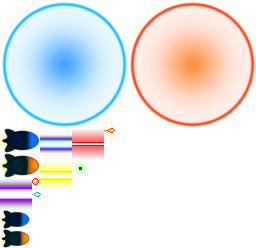
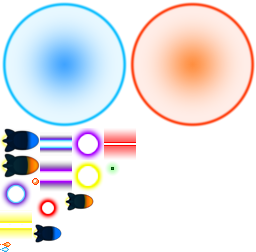
Added laser endings

diff --git a/public_html/js/modules/shots.js b/public_html/js/modules/shots.js
@@ -1,11 +1,12 @@
 window.shot = {
-    get: function (type, avatar) {
+    get: function (type, avatar, avatar2) {
         switch (type) {
             case SHOT_P2P:
                 return Crafty.e ('2D, Canvas, Image, {0}, {1}, {2}'.format (SHOT_ABS, type, avatar || P2P_IMAGE_NAME.shotNormal));
             case SHOT_LASER:
                 return Crafty.e ('2D, Canvas, Image, {0}, {1}'.format (SHOT_ABS, type))
-                        .setImage (LASER_IMAGE_PATH.laserThinRed)
+                        .setImage (avatar || LASER_IMAGE_PATH.laserThickPurple)
+                        .setEnding (avatar2 || LASER_IMAGE_NAME.laserThickPurpleEnd)
                         .attr ({w: 10, h: 10});
             case SHOT_HOMING:
                 return Crafty.e ('2D, Canvas, Image, {0}, {1}, {2}'.format (SHOT_ABS, type, avatar || HOMING_IMAGE_NAME.rocketBlueSmall));
@@ -156,11 +157,12 @@ Crafty.c (SHOT_LASER, {
     withRadius: false,
     //variable with range
     rangeRadius: 0,
-    create: function (laser) {
+    create: function (laser, ending) {
         this.angle = NaN;
+        if (!this.ending || ending)
+            this.setEnding (ending || LASER_IMAGE_NAME.laserThinRedEnd);
         if (!this.laser || laser)
             this.setImage (laser || LASER_IMAGE_PATH.laserThinRed);
-        this.laser.visible = false;
     },
     //#
     enterFrame: function () {
@@ -182,11 +184,16 @@ Crafty.c (SHOT_LASER, {
         this.laser.w = this.len + distance (this.shiftPoint, ep);
         this.laser.rotation = (this.angle * 180) / Math.PI;
         this.laser.visible = true;
+        this.ending.visible = true;
+
+        this.ending.x = ep.x - this.ending.w/2;
+        this.ending.y = ep.y - this.ending.h/2;
     },
     //#
     start: function () {
         if (this.startPoint !== null && this.endPoint !== null) {
             this.laser.z = this.z;
+            this.ending.z = this.z+1;
             this.setStartPoint (this.startPoint);
             this.laser.origin (0, this.laser.h / 2);
             this.len = 0;
@@ -219,6 +226,7 @@ Crafty.c (SHOT_LASER, {
     //#
     doDestroy: function () {
         this.laser.destroy ();
+        this.ending.destroy ();
         this.destroy ();
     },
     //#
@@ -230,6 +238,12 @@ Crafty.c (SHOT_LASER, {
     setImage: function (path) {
         this.laser = Crafty.e ("2D, Canvas, Image").image (path, "repeat");
         this.laser.visible = false;
+        return this;
+    },
+    //#
+    setEnding: function (avatar) {
+        this.ending = Crafty.e ("2D, Canvas, Image, {0}".format (avatar));
+        this.ending.visible = false;
         return this;
     }
 });

diff --git a/public_html/js/scenes/loading.js b/public_html/js/scenes/loading.js
@@ -12,7 +12,6 @@ Crafty.scene (SCENE_LOADING, function () {
         'images/cat.gif',
         'images/shot.png',
         'images/laser-cat.png',
-        
         //# explosion packed
         'images/exp-simple.png',
         'images/exp-complex.png',
@@ -233,15 +232,19 @@ Crafty.sprite ('images/shots.png', {
     aura_blue: [0, 0, 128, 128],
     aura_red: [128, 0, 128, 128],
     laser_thick_blue: [40, 128, 32, 32],
-    laser_thick_purple: [0, 178, 32, 32],
-    laser_thick_yellow: [40, 160, 32, 32],
-    laser_thin_red: [72, 128, 32, 32],
+    laser_thick_blue_end: [0, 178, 32, 32],
+    laser_thick_purple: [40, 160, 32, 32],
+    laser_thick_purple_end: [72, 128, 32, 32],
+    laser_thick_yellow: [0, 210, 32, 32],
+    laser_thick_yellow_end: [72, 160, 32, 32],
+    laser_thin_red: [104, 128, 32, 32],
+    laser_thin_red_end: [32, 192, 32, 32],
     rocket_blue: [0, 128, 40, 25],
-    rocket_blue_small: [0, 210, 30, 19],
+    rocket_blue_small: [32, 224, 30, 19],
     rocket_red: [0, 153, 40, 25],
-    rocket_red_small: [0, 229, 30, 19],
+    rocket_red_small: [64, 192, 30, 19],
     shot_cannon: [32, 178, 7, 7],
-    shot_green: [72, 160, 16, 16],
-    shot_ice: [32, 192, 9, 5],
-    shot_normal: [104, 128, 11, 5]
+    shot_green: [104, 160, 16, 16],
+    shot_ice: [0, 247, 9, 5],
+    shot_normal: [0, 242, 11, 5]
 });

diff --git a/public_html/js/scenes/test/laser.js b/public_html/js/scenes/test/laser.js
@@ -13,6 +13,11 @@ Crafty.scene (SCENE_LASER_TEST, function () {
         LASER_IMAGE_PATH.laserThickPurple,
         LASER_IMAGE_PATH.laserThickYellow,
         LASER_IMAGE_PATH.laserThinRed];
+    
+    var endings = [LASER_IMAGE_NAME.laserThickBlueEnd,
+        LASER_IMAGE_NAME.laserThickPurpleEnd,
+        LASER_IMAGE_NAME.laserThickYellowEnd,
+        LASER_IMAGE_NAME.laserThinRedEnd];
 
     for (var i = 0; i < p.length; i++) {
         var g = board.createGate (p[i]);
@@ -21,7 +26,7 @@ Crafty.scene (SCENE_LASER_TEST, function () {
         l.z = 99;
         l.setStartPoint ([p[i].x * W + W / 2, p[i].y * H + H / 2]);
         l.setEndPoint (mousePos);
-        l.create (lasers[i]);
+        l.create (lasers[i], endings[i]);
         l.start ();
     }
 });

diff --git a/public_html/js/core/constants.js b/public_html/js/core/constants.js
@@ -127,7 +127,11 @@ var LASER_IMAGE_NAME = {
     laserThinRed: 'laser_thin_red',
     laserThickYellow: 'laser_thick_yellow',
     laserThickPurple: 'laser_thick_purple',
-    laserThickBlue: 'laser_thick_blue'
+    laserThickBlue: 'laser_thick_blue',
+    laserThinRedEnd: 'laser_thin_red_end',
+    laserThickYellowEnd: 'laser_thick_yellow_end',
+    laserThickPurpleEnd: 'laser_thick_purple_end',
+    laserThickBlueEnd: 'laser_thick_blue_end'
 };
 
 var P2P_IMAGE_NAME = {
